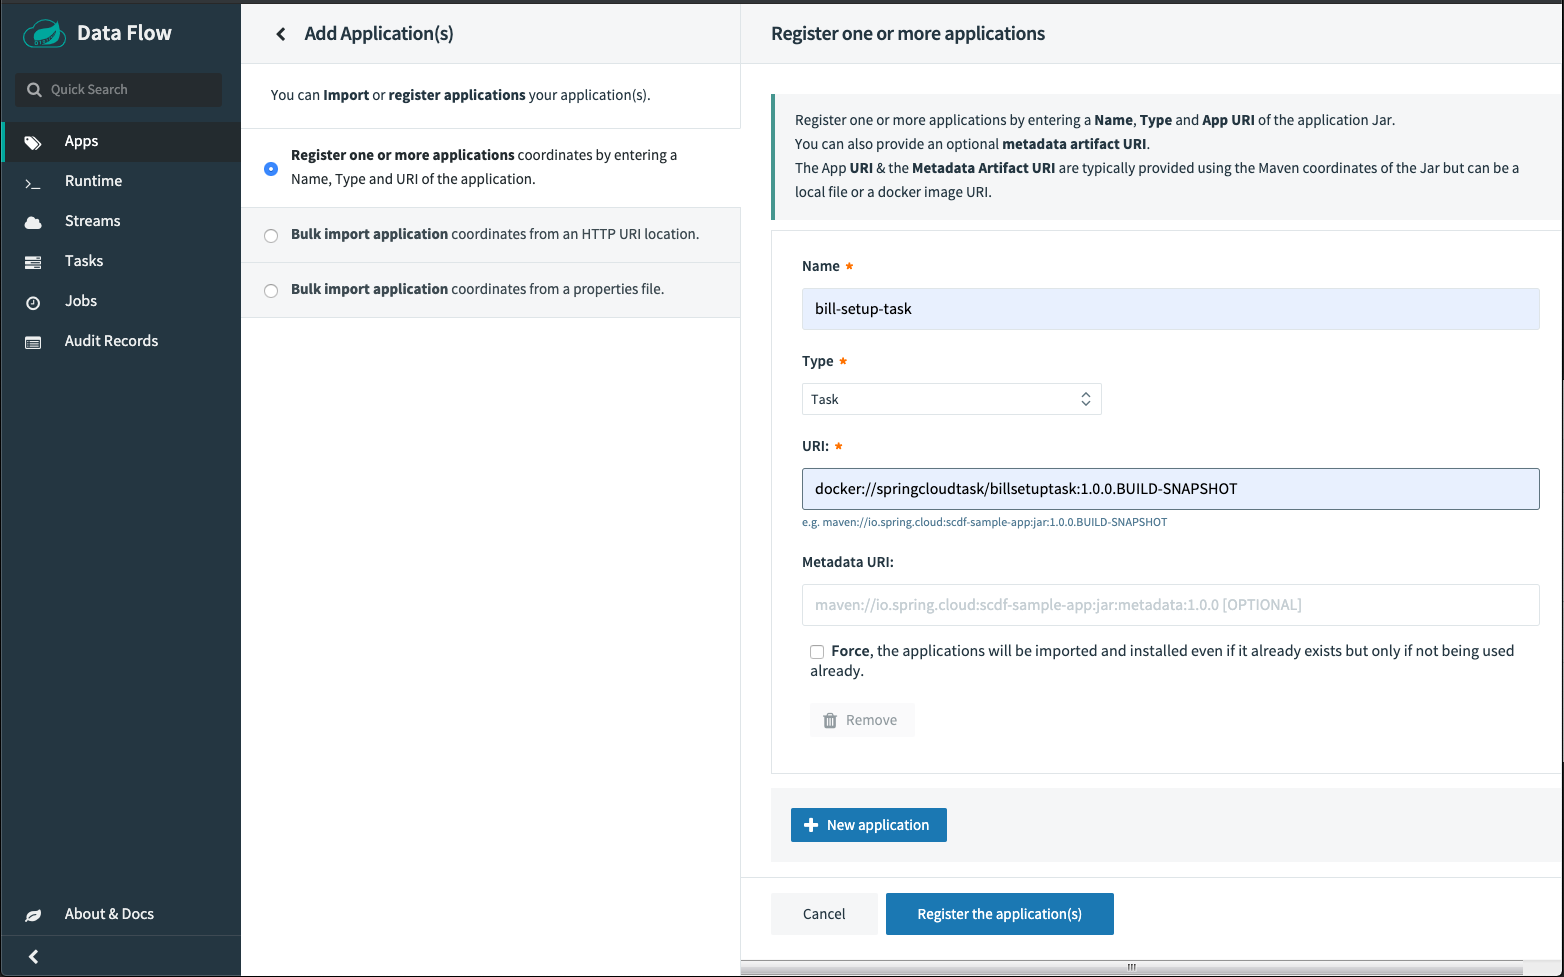
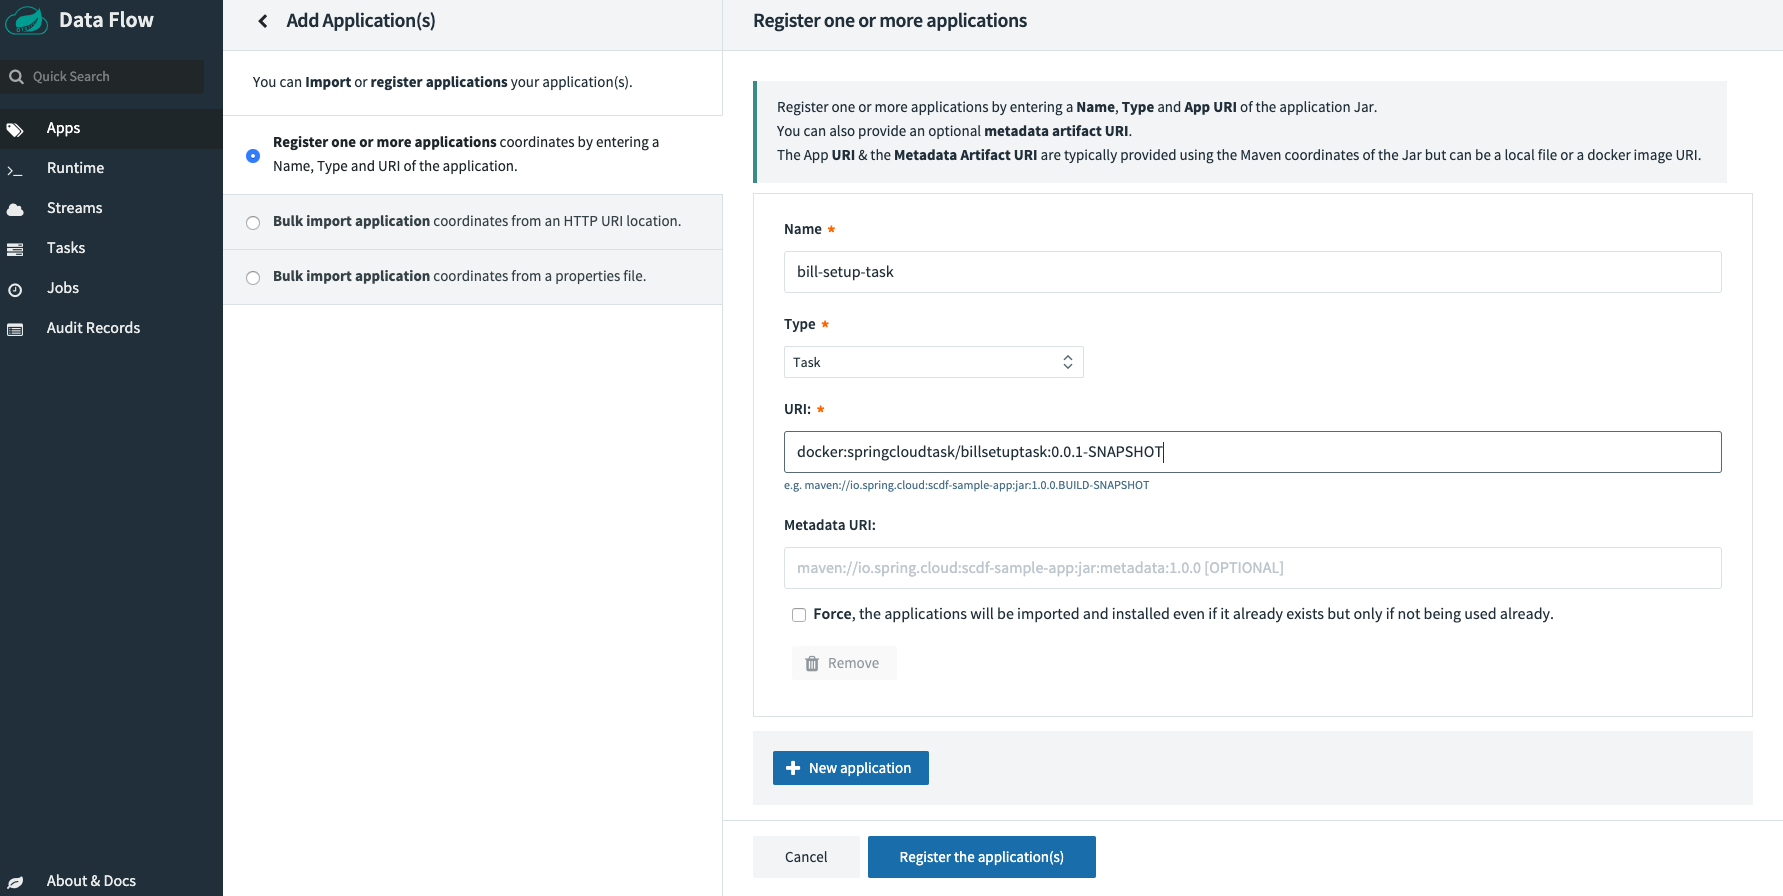
Instructions for deploying spring batch apps to SCDF
resolves https://github.com/spring-cloud/spring-cloud-dataflow/issues/3197

Updated based on code review

diff --git a/content/documentation/pages/4-batch-developer-guides/2-batch/4-data-flow-spring-batch.md b/content/documentation/pages/4-batch-developer-guides/2-batch/4-data-flow-spring-batch.md
@@ -1,41 +1,152 @@
 ---
 path: 'batch-developer-guides/batch/data-flow-spring-batch/'
-title: 'Launch a Spring Batch application using Data Flow'
-description: 'Launch a Spring Batch application using Data Flow'
+title: 'Register and launch a Spring Batch application using Data Flow'
+description: 'Register and launch a Spring Batch application using Data Flow'
 ---
 
-# Deploy a Spring Batch application using Data Flow
+# Deploy a Spring Cloud Task application using Data Flow
 
-In this section we will show how to register spring batch applications with Data Flow, create a task DSL, and launch the task to Cloud Foundry, Kubernetes and your local machine.
+In this section, we will demonstrate how to register a Spring Batch application with Data Flow, create a task definition, and launch the task definition on Cloud Foundry, Kubernetes and your local machine.
 
-## Development
+## Prerequisites
 
-Explaine what we are doing to do development wise.
+### Data Flow Installation
+
+Make sure have installed Spring Cloud Data Flow to the platform of your choice:
+
+- [Local](%currentPath%/installation/local/)
+- [Cloud Foundry](%currentPath%/installation/cloudfoundry)
+- [Kubernetes](%currentPath%/installation/kubernetes/)
+
+### Spring Batch Project
+
+For this guide, we will use the [Spring Batch Jobs](%currentPath%/batch-developer-guides/batch/spring-batch) sample Spring Batch application, called `billrun`.
+Follow the instructions to code and build the Spring Batch application if you have not done so already.
+
+## Create Task Definition
+
+We will register the batch application, create a simple task definition for the batch application, and launch the task definition using the Data Flow Server.
+The Data Flow server provides a comprehensive [API](http://docs.spring.io/spring-cloud-dataflow/docs/current/reference/htmlsingle/#api-guide) to perform the necessary steps.
+The Data Flow server includes a Data Flow Dashboard web UI client. In addition there is a [Data Flow Shell](http://docs.spring.io/spring-cloud-dataflow/docs/current/reference/htmlsingle/#shell) CLI, available as separate download.
+The CLI and the UI both expose the complete API functionality.
+Which one to use is a matter of preference, but the UI is quite nice so we will feature it here.
+
+### The Data Flow Dashboard
+
+Assuming Data Flow is [installed](%currentPath%/installation/) and running on one of the supported platforms, open your browser at `<data-flow-url>/dashboard`. Here, `<data-flow-url>` depends on the platform. Consult the [installation guide](%currentPath%/installation) to determining the base URL for your installation. If Data Flow is running on your local machine, go to http://localhost:9393/dashboard.
 
 ### Application Registration
 
-how to register apps using the CLI and/or (?) UI
+The Data Flow Dashboard will land on the Application Registration view where we will register the sample Spring Batch app.
 
-### Create Stream DSL
+![Add an application](images/SCDF-add-applications.png)
 
-how to create the DSL using CLI and/or (?) UI
+#### Application Registration Concepts
 
-### Validate Stream DSL
+Applications in Data Flow are registered as named resources so that they may be referenced when using the Data Flow DSL to configure and compose tasks.
+Registration associates a logical application name and type with a physical resource, given by a URI.
+The URI conforms to a [schema](http://docs.spring.io/spring-cloud-dataflow/docs/current/reference/htmlsingle/#spring-cloud-dataflow-register-stream-apps) and may represent a Maven artifact, a Docker image, or an actual `http(s)` or `file` URL.
+Data Flow defines a some logical application types which indicate its role as a streaming component, a task, or a standalone application.
+In this case our Spring Batch application, as you might guess, are always registered as a `task` type.
 
-make sure the app coordinates are correct
+[[tip]]
+|For a Spring Batch Application to be launched by Data Flow it must also be a Spring Cloud Task application. This is done by adding the `@EnableTask` to a configuration or to the application as shown in our [sample](%currentPath%/batch-developer-guides/batch/spring-batch).
 
-## Deployment
+#### Registering an Application
 
-Deploy to local, Cloud Foundry and Kubernetes
+<!--TABS-->
 
-### Local
+<!--Local-->
 
-get the jar run it bla
+Spring Cloud Data Flow supports maven, http, file, and docker resources for local deployments. For this example we will use the maven resource.
+The URI for a Maven artifact is generally of the form `maven://<groupId>:<artifactId>:<version>`. The maven URI for the sample app is:
 
-### Cloud Foundry
+```
+maven://io.spring:billrun:0.0.1-SNAPSHOT
+```
 
-As Alana I must ask for an org/space
+The `maven:` protocol specifies a Maven artifact which is resolved using the remote and local Maven repositories configured for the Data Flow Server.
+To register an application, select `Add Applications` and `Register one or more applications`. Fill in the form, as shown, and hit `Register the application(s)`.
 
-### Kubernetes
+![Register the billrun batch app](images/SCDF-register-batch-app-maven.png)
 
-Where all the cool kids play.
+<!--CloudFoundry-->
+
+**TODO Replace ghillerts repo with a Spring repo or use maven central**
+
+Spring Cloud Data Flow supports maven, http, and docker resources for local deployments. For this example we will use a http resource. The URI for a https is of the form `https://<web-path>/<artifactName>-<version>.jar`. Spring Cloud Data Flow will then pull the artifact from the https URI.
+
+The Https URI for the sample app is:
+
+```
+https://github.com/ghillert/task-apps/raw/master/billrun-0.0.1-SNAPSHOT.jar
+```
+
+To register an application, select `Add Applications` and `Register one or more applications`. Fill in the form, as shown, and hit `Register the application(s)`.
+
+![Register the billrun batch app](images/SCDF-register-batch-app-http.png)
+
+<!--Kubernetes-->
+
+Spring Cloud Data Flow supports docker resources for Kubernetes deployments. For this example we will use the maven resource.
+The URI for a Docker Image is of the form `docker:<docker-image-path>/<imageName>:<version>` and is resolved using the Docker registry configured for the Data Flow task platform and image pull policy.
+
+The Docker URI for the sample app is:
+
+```
+docker:springcloudtask/billrun:0.0.1-SNAPSHOT
+```
+
+To register an application, select `Add Applications` and `Register one or more applications`. Fill in the form, as shown, and hit `Register the application(s)`.
+
+![Register the billrun batch app](images/SCDF-register-batch-app-docker.png)
+
+<!--END_TABS-->
+
+### Creating the Task Definition
+
+Select `Tasks` from the left navigation bar, then select `Create task(s)`.
+This displays a graphical editor that we can use to compose tasks.
+The initial canvas contains `START` and `END` nodes. To the left of the canvas, we see the available task applications, including `billrun` which we just registered.
+Simply drag that task(billrun) to the canvas and connect the task to the START and END nodes to complete the task definition.
+In this case, the task definition consists of a single task application.
+If the app defined configuration properties, we would set them here.
+
+![Create the billrun task definition](images/SCDF-create-batch.png)
+
+Click on `Create Task`.
+This will prompt you to name the task definition, which is the logical name for the runtime configuration we will to deploy.
+In this case, we will use the same name as the task application which is `billrun`.
+
+![Confirm create task](images/SCDF-confirm-create-batch.png)
+
+Press `Create the task`.
+This will display the main `Tasks` view.
+
+### Launch the Task
+
+![Launch the task](images/SCDF-launch-batch.png)
+
+Now we will launch the task by pressing the `play` button (that's the middle icon that looks like an arrow head pointing right).
+This will take you to a form where you can add command line arguments and deployment parameters, but we don't need any for this task.
+Press `Launch the task` and stand back!
+This will run the task on the Data Flow server's task platform and record a new task `execution`.
+When the execution is complete, the Status will turn to a satisfying green color and show `Complete.`
+Select the `Executions` tab to view a summary of executions for this task.
+
+![Task executions](images/SCDF-batch-executions.png)
+
+### Review the Job Execution
+
+Now that we have successfully launched the task we now want to see check the status of the Job that was executed by the application.
+To view the Job Executions click the Jobs tab on the left hand side of the UI.
+
+![Job executions](images/SCDF-batch-jobs-execution.png)
+
+Now that we can view our Job executions we can now dig in to the detail for each Job execution. This can be done by clicking the `billrun` link on our Job execution.
+
+![Job execution detail](images/SCDF-batch-execution-detail.png)
+
+And for each Job Execution we can view the Step detail for each of or Steps. This can be done by clicking the name of the Step, in our case it is `BillProcessing`
+
+![Step detail](images/SCDF-step-detail.png)

diff --git a/content/documentation/pages/4-batch-developer-guides/2-batch/3-data-flow-simple-task.md b/content/documentation/pages/4-batch-developer-guides/2-batch/3-data-flow-simple-task.md
@@ -6,14 +6,27 @@ description: 'Register and Launch a Spring Cloud Task application using Data Flo
 
 # Deploy a Spring Cloud Task application using Data Flow
 
-In this section, we will demonstrate how to register a Spring Cloud Task application with Data Flow, create a task definition, and launch the task on Cloud Foundry, Kubernetes and your local machine.
+In this section, we will demonstrate how to register a Spring Cloud Task application with Data Flow, create a task definition, and launch the task definition on Cloud Foundry, Kubernetes and your local machine.
+
+## Prerequisites
+
+### Data Flow Installation
+
+Make sure have installed Spring Cloud Data Flow to the platform of your choice:
+
+- [Local](%currentPath%/installation/local/)
+- [Cloud Foundry](%currentPath%/installation/cloudfoundry)
+- [Kubernetes](%currentPath%/installation/kubernetes/)
+
+### Spring Cloud Task Project
+
+For this guide, we will use the [Spring Cloud Task](%currentPath%/batch-developer-guides/batch/simple-task) sample, called `billsetuptask`.
+Follow the instructions to code and build the task if you have not done so already.
 
 ## Create Task Definition
 
-For this guide, we will use the [simple task](%currentPath%/batch-developer-guides/batch/simple-task) sample Spring Cloud Task application, called `billsetuptask`.
-Follow the instructions to code and build the task if you have not done so already.
 We will register a task application, create a simple task definition, and launch the task using the Data Flow Server.
-The Data Flow Server provides a comprehensive [API](http://docs.spring.io/spring-cloud-dataflow/docs/current/reference/htmlsingle/#api-guide) to perform the necessary steps.
+The Data Flow server provides a comprehensive [API](http://docs.spring.io/spring-cloud-dataflow/docs/current/reference/htmlsingle/#api-guide) to perform the necessary steps.
 The Data Flow server includes a Data Flow Dashboard web UI client. In addition there is a [Data Flow Shell](http://docs.spring.io/spring-cloud-dataflow/docs/current/reference/htmlsingle/#shell) CLI, available as separate download.
 The CLI and the UI both expose the complete API functionality.
 Which one to use is a matter of preference, but the UI is quite nice so we will feature it here.
@@ -36,33 +49,56 @@ The URI conforms to a [schema](http://docs.spring.io/spring-cloud-dataflow/docs/
 Data Flow defines a some logical application types which indicate its role as a streaming component, a task, or a standalone application.
 Spring Cloud Task applications, as you might guess, are always registered as a `task` type.
 
-##### Maven Artifacts
+#### Registering an Application
 
-The URI for a Maven artifact is generally of the form `maven://<groupId>:<artifactId>:<version>`.
+<!--TABS-->
 
-The maven URI for the sample app is:
+<!--Local-->
+
+Spring Cloud Data Flow supports maven, http, file, and docker resources for local deployments. For this example we will use the maven resource.
+The URI for a Maven artifact is generally of the form `maven://<groupId>:<artifactId>:<version>`. The maven URI for the sample app is:
 
 ```
-maven://io.spring:billsetuptask:1.0.0.BUILD-SNAPSHOT
+maven://io.spring:billsetuptask:0.0.1-SNAPSHOT
 ```
 
 The `maven:` protocol specifies a Maven artifact which is resolved using the remote and local Maven repositories configured for the Data Flow Server.
+To register an application, select `Add Applications` and `Register one or more applications`. Fill in the form, as shown, and hit `Register the application(s)`.
 
-##### Docker Images
+![Register the billrun batch app](images/SCDF-register-task-app-maven.png)
 
+<!--CloudFoundry-->
+
+**TODO Replace ghillerts repo with a Spring repo or use maven central**
+
+Spring Cloud Data Flow supports maven, http, and docker resources for local deployments. For this example we will use a http resource. The URI for a https is of the form `https://<web-path>/<artifactName>-<version>.jar`. Spring Cloud Data Flow will then pull the artifact from the https URI.
+
+The Https URI for the sample app is:
+
+```
+https://github.com/ghillert/task-apps/raw/master/billsetuptask-0.0.1-SNAPSHOT.jar
+```
+
+To register an application, select `Add Applications` and `Register one or more applications`. Fill in the form, as shown, and hit `Register the application(s)`.
+
+![Register the billrun batch app](images/SCDF-register-task-app-http.png)
+
+<!--Kubernetes-->
+
+Spring Cloud Data Flow supports docker resources for Kubernetes deployments. For this example we will use the maven resource.
 The URI for a Docker Image is of the form `docker:<docker-image-path>/<imageName>:<version>` and is resolved using the Docker registry configured for the Data Flow task platform and image pull policy.
 
 The Docker URI for the sample app is:
 
 ```
-docker:springcloudtask/billsetuptask:1.0.0.BUILD-SNAPSHOT
+docker:springcloudtask/billsetuptask:0.0.1-SNAPSHOT
 ```
-
-#### Registering an Application
 
 To register an application, select `Add Applications` and `Register one or more applications`. Fill in the form, as shown, and hit `Register the application(s)`.
 
-![Register the billsetup Task app](images/SCDF-register-task-app-maven.png)
+![Register the billrun batch app](images/SCDF-register-task-app-docker.png)
+
+<!--END_TABS-->
 
 ### Creating the Task Definition
 
@@ -84,7 +120,7 @@ In this case, we will use the same name as the task application.
 Press `Create the task`.
 This will display the main `Tasks` view.
 
-## Launch the Task
+### Launch the Task
 
 ![Launch the task](images/SCDF-launch-task.png)
 
@@ -96,15 +132,3 @@ When the execution is complete, the Status will turn to a satisfying green color
 Select the `Executions` tab to view a summary of executions for this task.
 
 ![Task executions](images/SCDF-task-executions.png)
-
-### Local
-
-get the jar run it bla
-
-### Cloud Foundry
-
-As Alana I must ask for an org/space
-
-### Kubernetes
-
-Run the [sample task on Kubernetes](%currentPath%/batch-developer-guides/batch/data-flow-simple-task-kubernetes/).
